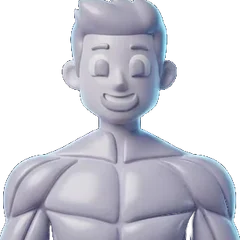
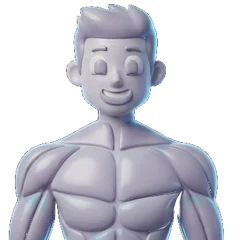
vucut haritasi: Luma glow render'lari kullaniliyor (base = 14 goruntunun min'i, her kas = glow diff); calisilan kas kendi render'iyla screen blend ile parlar, yogunluga gore opaklik; koyu holo panel; dokunma/secim/kart/aria korundu

diff --git a/src/ui/BodyMap.tsx b/src/ui/BodyMap.tsx
@@ -1,12 +1,10 @@
 /**
- * Vücut haritası: Luma AI figürü (public/body/body-front.webp, body-back.webp) <img> ile
- * gösterilir; üstüne aynı viewBox'ta şeffaf bir SVG katmanı konur. Her kas için görseldeki
- * kasın sınırına oturan path(ler) vardır; çalışılan kas o bölgenin yoğunluğuna göre
- * var(--accent) ile parlar (feGaussianBlur dış parlama), çalışılmayan kas şeffaf kalır.
- * Sol taraf çizilip sağ taraf aynalanır. Dokununca seçme, bölge kartı, aria ve yoğunluk korunur.
- *
- * Path'ler figürün üstüne render edilip ekran görüntüsüyle kas çizgilerine hizalandı
- * (bkz. tmp/align.html).
+ * Vücut haritası: Luma AI figürünün karelerinden üretilen katmanlar.
+ *  - base-front/back.webp: sönük (normal) figür.
+ *  - g-{kas}-{view}.webp: o kasın glow'u (yalnızca ışık; base'ten farkı). Çalışılan kasın
+ *    glow'u base üstüne screen ile bindirilir, opaklık yoğunlukla artar (seçiliyse tam).
+ * Üstte şeffaf bir SVG dokunma katmanı seçimi, bölge kartını, aria'yı ve yoğunluğu sağlar.
+ * Görseller tmp/glow.cjs ile üretildi (14 glow render'ı → base = piksel-min, diff = glow).
  */
 import { MCAT_NAME } from '../lib/motra'
 
@@ -15,106 +13,111 @@ export type BodyLoad = Record<string, number>
 
 const regionName = (g: string) =>
   MCAT_NAME[g] ?? (g === 'hyrox' ? 'Hyrox' : g === 'cardio' ? 'Kardiyo' : g)
-
 const asset = (f: string) => `${import.meta.env.BASE_URL}body/${f}`
 
-type Region = { g: string; center?: boolean; d: string[] }
+type E = [cx: number, cy: number, rx: number, ry: number]
+type Region = { g: string; center?: boolean; hit: E[] }
 
-// Sol-yarı kas konturları (merkez olmayanlar x'=W-x ile aynalanır). viewBox ön 426×832, arka 425×832.
+// Hangi (kas, görünüm) için glow görseli var.
+const GLOW = new Set([
+  'chest-front', 'abs-front', 'obliques-front', 'quads-front', 'biceps-front',
+  'shoulders-front', 'forearms-front', 'calves-front',
+  'traps-back', 'lats-back', 'triceps-back', 'hamstrings-back', 'glutes-back',
+  'lowerback-back', 'shoulders-back', 'forearms-back', 'calves-back',
+])
+
+// Dokunma elipsleri (görünmez). base-front 440×783, base-back 440×802; merkez x=220.
 const FRONT: Region[] = [
-  { g: 'traps', center: true, d: ['M170 210 Q213 198 256 210 Q249 223 213 223 Q177 223 170 210 Z'] },
-  { g: 'chest', d: ['M211 230 Q150 228 126 251 Q119 287 151 301 Q197 303 211 291 Z'] },
-  { g: 'shoulders', d: ['M127 247 Q95 243 85 269 Q84 294 105 299 Q123 295 129 276 Z'] },
-  { g: 'biceps', d: ['M96 301 Q77 307 75 335 Q77 368 96 376 Q113 369 112 340 Q112 312 96 301 Z'] },
-  { g: 'forearms', d: ['M76 378 Q61 390 59 418 Q61 455 80 464 Q97 457 94 420 Q90 393 76 378 Z'] },
-  { g: 'abs', center: true, d: ['M186 306 Q213 300 240 306 L238 432 Q213 444 188 432 Z'] },
-  { g: 'obliques', d: ['M184 322 Q167 332 165 362 Q165 402 184 426 L191 421 Q176 390 179 331 Z'] },
-  { g: 'quads', d: ['M151 462 Q127 471 125 521 L140 632 Q167 650 183 633 L187 500 Q181 468 151 462 Z'] },
-  { g: 'calves', d: ['M146 690 Q129 700 129 741 L140 800 Q161 810 173 797 L175 730 Q168 698 146 690 Z'] },
+  { g: 'traps', center: true, hit: [[220, 195, 42, 18]] },
+  { g: 'shoulders', hit: [[120, 236, 38, 42]] },
+  { g: 'chest', hit: [[176, 256, 42, 42]] },
+  { g: 'biceps', hit: [[92, 336, 28, 52]] },
+  { g: 'forearms', hit: [[62, 452, 24, 50]] },
+  { g: 'abs', center: true, hit: [[220, 372, 42, 80]] },
+  { g: 'obliques', hit: [[178, 376, 20, 54]] },
+  { g: 'quads', hit: [[178, 560, 44, 96]] },
+  { g: 'calves', hit: [[186, 715, 28, 62]] },
 ]
 const BACK: Region[] = [
-  { g: 'traps', center: true, d: ['M213 205 Q150 214 136 250 Q170 272 213 272 Q256 272 290 250 Q276 214 213 205 Z'] },
-  { g: 'shoulders', d: ['M127 250 Q95 246 85 272 Q84 297 105 302 Q123 298 129 279 Z'] },
-  { g: 'lats', d: ['M208 268 Q160 274 142 316 Q148 360 186 372 Q206 360 210 322 Z'] },
-  { g: 'triceps', d: ['M96 301 Q77 307 75 335 Q77 368 96 376 Q113 369 112 340 Q112 312 96 301 Z'] },
-  { g: 'forearms', d: ['M76 378 Q61 390 59 418 Q61 455 80 464 Q97 457 94 420 Q90 393 76 378 Z'] },
-  { g: 'lowerback', center: true, d: ['M188 360 Q213 354 238 360 L236 418 Q213 428 190 418 Z'] },
-  { g: 'glutes', d: ['M211 428 Q170 428 160 458 Q162 490 200 494 Q210 480 211 456 Z'] },
-  { g: 'hamstrings', d: ['M150 500 Q128 508 127 556 L140 648 Q166 664 182 648 L186 536 Q180 505 150 500 Z'] },
-  { g: 'calves', d: ['M146 690 Q129 700 129 741 L140 800 Q161 810 173 797 L175 730 Q168 698 146 690 Z'] },
+  { g: 'traps', center: true, hit: [[220, 236, 62, 50]] },
+  { g: 'shoulders', hit: [[120, 240, 38, 42]] },
+  { g: 'lats', hit: [[178, 322, 46, 66]] },
+  { g: 'triceps', hit: [[92, 336, 28, 52]] },
+  { g: 'forearms', hit: [[62, 452, 24, 50]] },
+  { g: 'lowerback', center: true, hit: [[220, 402, 38, 38]] },
+  { g: 'glutes', hit: [[180, 456, 44, 44]] },
+  { g: 'hamstrings', hit: [[180, 576, 44, 94]] },
+  { g: 'calves', hit: [[186, 715, 28, 62]] },
 ]
 
-function Shapes({ region, w }: { region: Region; w: number }) {
+function Hit({ region, w }: { region: Region; w: number }) {
   return (
     <>
-      {region.d.map((d, i) => (
-        <path key={i} d={d} />
+      {region.hit.map(([cx, cy, rx, ry], i) => (
+        <ellipse key={i} cx={cx} cy={cy} rx={rx} ry={ry} />
       ))}
-      {!region.center && (
-        <g transform={`translate(${w},0) scale(-1,1)`}>
-          {region.d.map((d, i) => (
-            <path key={i} d={d} />
-          ))}
-        </g>
-      )}
+      {!region.center &&
+        region.hit.map(([cx, cy, rx, ry], i) => (
+          <ellipse key={'m' + i} cx={w - cx} cy={cy} rx={rx} ry={ry} />
+        ))}
     </>
   )
 }
 
-function Overlay({
+function Figure({
+  view,
+  vb,
   regions,
-  w,
-  img,
   load,
   selected,
   onSelect,
 }: {
+  view: 'front' | 'back'
+  vb: [number, number]
   regions: Region[]
-  w: number
-  img: string
   load: BodyLoad
   selected?: string | null
   onSelect?: (g: string | null) => void
 }) {
   return (
     <div className="bodyfig">
-      <img src={img} alt="" />
-      <svg viewBox={`0 0 ${w} 832`} preserveAspectRatio="xMidYMin meet">
-        <defs>
-          <filter id="mglow" x="-30%" y="-30%" width="160%" height="160%">
-            <feGaussianBlur stdDeviation="6" />
-          </filter>
-        </defs>
-        {regions.map((region) => {
-          const active = selected === region.g
-          const i = Math.max(0, Math.min(1, load[region.g] ?? 0))
-          const op = active ? 0.9 : i <= 0.001 ? 0 : 0.4 + i * 0.5
+      <img className="bodybase" src={asset(`base-${view}.webp`)} alt="" />
+      {regions.map((r) => {
+        if (!GLOW.has(`${r.g}-${view}`)) return null
+        const active = selected === r.g
+        const i = Math.max(0, Math.min(1, load[r.g] ?? 0))
+        const op = active ? 1 : i <= 0.001 ? 0 : 0.35 + i * 0.65
+        if (op <= 0) return null
+        return (
+          <img
+            key={r.g}
+            className="bodyglow"
+            src={asset(`g-${r.g}-${view}.webp`)}
+            alt=""
+            style={{ opacity: op }}
+            loading="lazy"
+          />
+        )
+      })}
+      <svg className="bodyhit" viewBox={`0 0 ${vb[0]} ${vb[1]}`} preserveAspectRatio="none">
+        {regions.map((r) => {
+          const active = selected === r.g
           return (
             <g
-              key={region.g}
+              key={r.g}
               role="button"
               tabIndex={0}
-              aria-label={regionName(region.g)}
+              aria-label={regionName(r.g)}
               aria-pressed={active}
+              fill="#000"
+              fillOpacity={0.001}
               style={{ cursor: 'pointer', pointerEvents: 'all' }}
               onClick={(e) => {
                 e.stopPropagation()
-                onSelect?.(active ? null : region.g)
+                onSelect?.(active ? null : r.g)
               }}
             >
-              <g fill="#000" fillOpacity={0.001}>
-                <Shapes region={region} w={w} />
-              </g>
-              {op > 0 && (
-                <>
-                  <g fill="var(--accent)" fillOpacity={op * 0.5} filter="url(#mglow)">
-                    <Shapes region={region} w={w} />
-                  </g>
-                  <g fill="var(--accent)" fillOpacity={op}>
-                    <Shapes region={region} w={w} />
-                  </g>
-                </>
-              )}
+              <Hit region={r} w={vb[0]} />
             </g>
           )
         })}
@@ -135,10 +138,10 @@ export function BodyMap({
   return (
     <div className="bodymap" onClick={() => onSelect?.(null)}>
       <div className="bodymap__fig">
-        <Overlay regions={FRONT} w={426} img={asset('body-front.webp')} load={load} selected={selected} onSelect={onSelect} />
+        <Figure view="front" vb={[440, 783]} regions={FRONT} load={load} selected={selected} onSelect={onSelect} />
       </div>
       <div className="bodymap__fig">
-        <Overlay regions={BACK} w={425} img={asset('body-back.webp')} load={load} selected={selected} onSelect={onSelect} />
+        <Figure view="back" vb={[440, 802]} regions={BACK} load={load} selected={selected} onSelect={onSelect} />
       </div>
     </div>
   )

diff --git a/src/styles.css b/src/styles.css
@@ -3216,37 +3216,45 @@ body {
   margin-bottom: 2px;
 }
 
+/* Koyu "holo" panel: figür açık renk olduğu için her temada koyu zeminde gösterilir. */
 .bodymap {
   display: flex;
-  gap: 16px;
+  gap: 10px;
   justify-content: center;
-  padding: 6px 0 2px;
+  padding: 12px 6px;
+  background: #0b0f1a;
+  border-radius: 16px;
 }
 
 .bodymap__fig {
   flex: 1;
-  max-width: 150px;
+  max-width: 160px;
 }
 
 .bodyfig {
   position: relative;
 }
 
-.bodyfig img {
+.bodyfig .bodybase {
   width: 100%;
   display: block;
+  /* sönük (normal) figür; çalışılan kas glow ile öne çıksın */
+  filter: brightness(0.62) saturate(0.85);
 }
 
-.bodyfig svg {
+.bodyfig .bodyglow {
+  position: absolute;
+  inset: 0;
+  width: 100%;
+  mix-blend-mode: screen;
+  pointer-events: none;
+}
+
+.bodyfig .bodyhit {
   position: absolute;
   inset: 0;
   width: 100%;
   height: 100%;
-}
-
-/* Figür açık renk; açık/mavi temada görünür kalsın diye hafifçe koyulaştır. */
-:root:not([data-theme='dark']) .bodyfig img {
-  filter: brightness(0.78) contrast(1.08) saturate(0.9);
 }
 
 /* ---------- Hukuki metinler ---------- */
